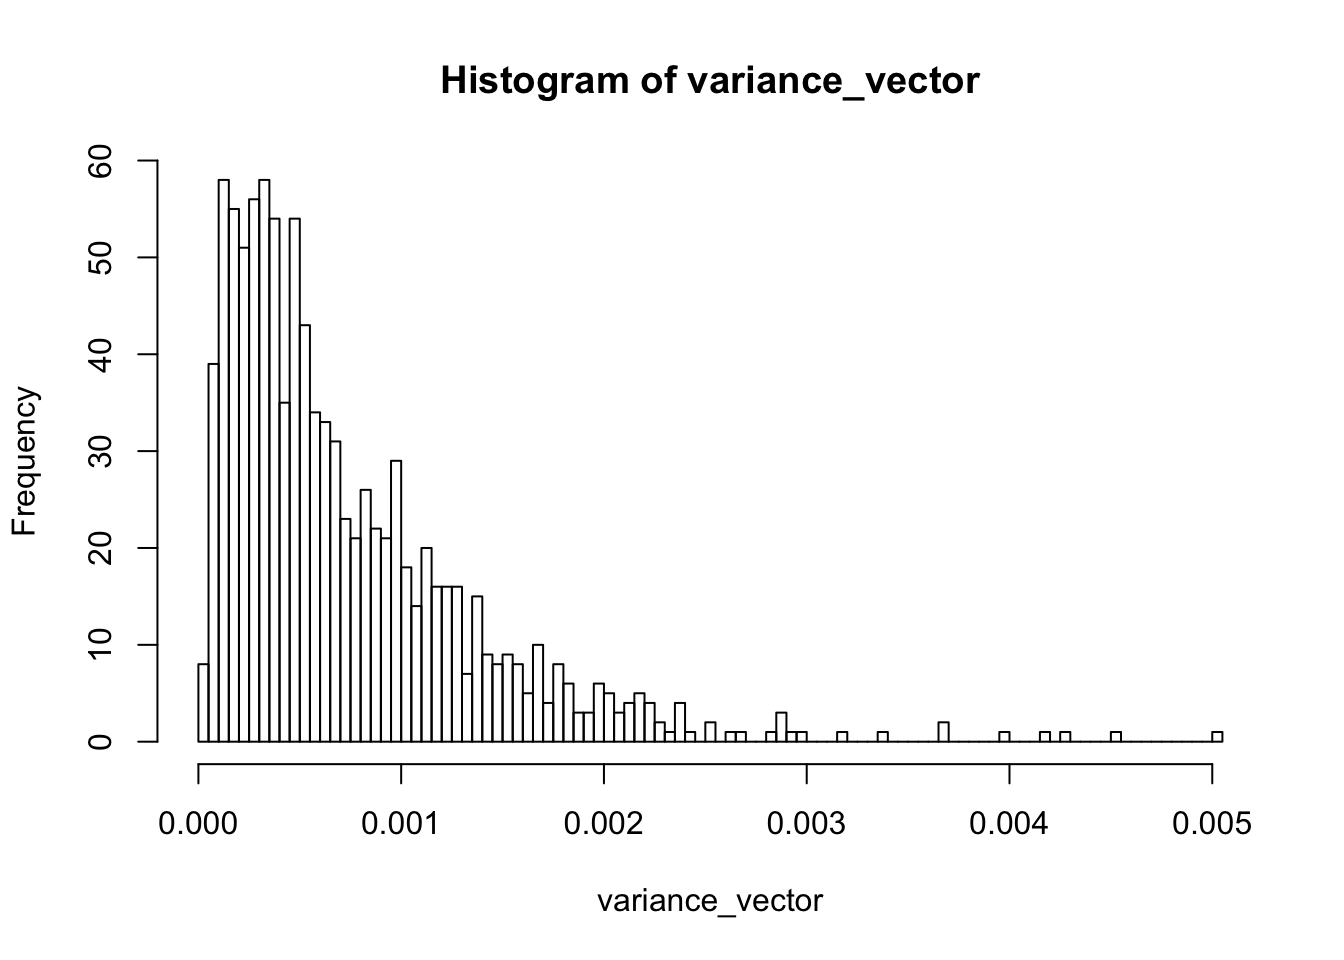
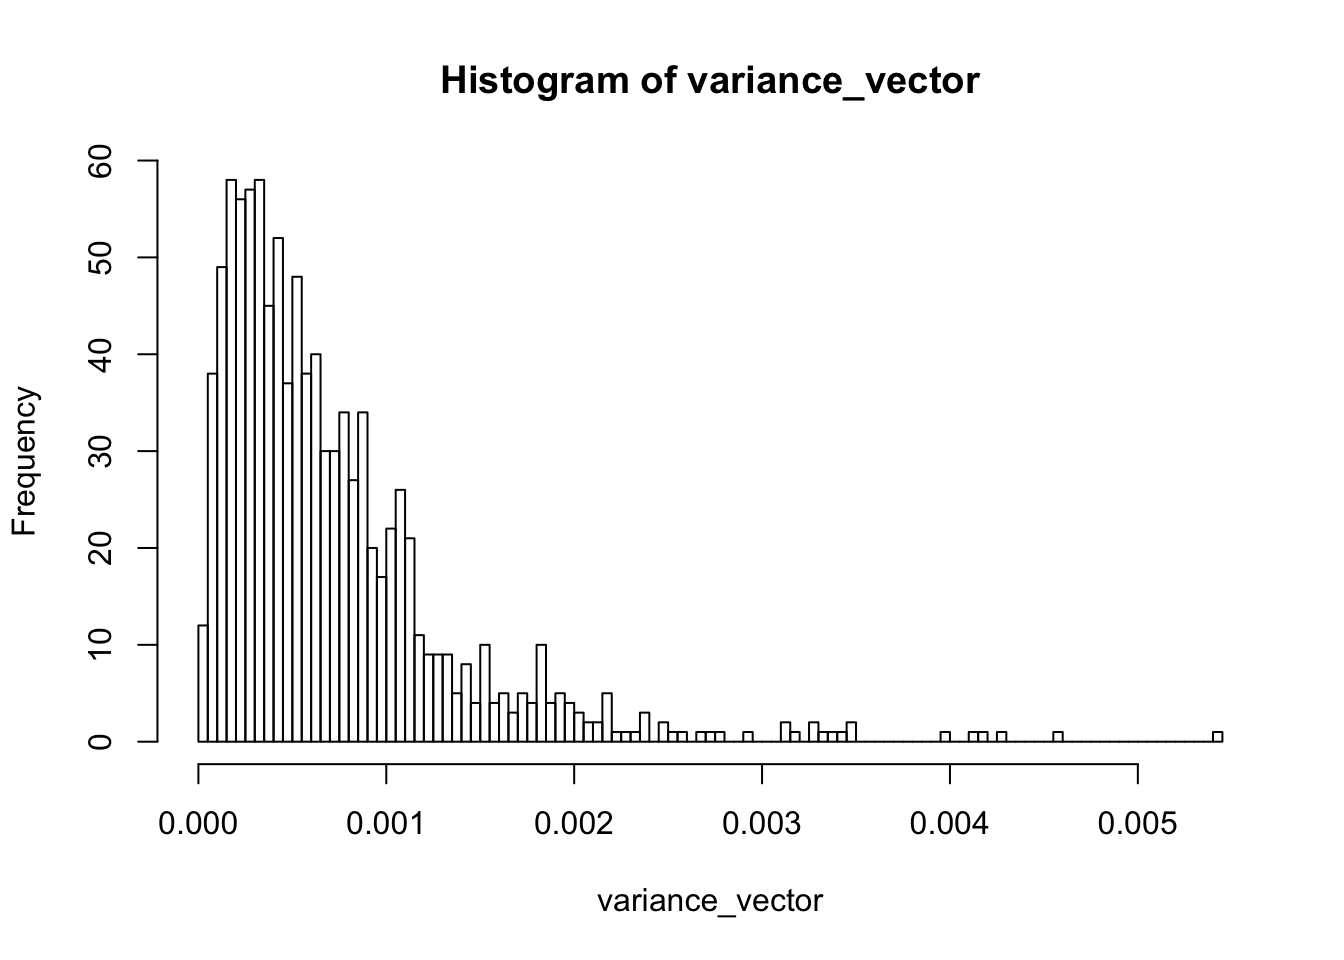
update docs

diff --git a/docs/articles/Intermediate.html b/docs/articles/Intermediate.html
@@ -154,7 +154,7 @@
 <pre><code>#&gt; Plot signature: ' TAI ' and test statistic: ' FlatLineTest '.</code></pre>
 <p><img src="Intermediate_files/figure-html/unnamed-chunk-4-1.png" width="672"></p>
 <pre><code>#&gt;   Zygote Quadrant Globular    Heart  Torpedo     Bent   Mature 
-#&gt; 3.531216 3.523585 3.498187 3.491242 3.480423 3.501253 3.450487</code></pre>
+#&gt; 3.466422 3.488428 3.495646 3.496013 3.506797 3.463541 3.389245</code></pre>
 <pre><code>  Zygote Quadrant Globular    Heart  Torpedo     Bent   Mature 
 3.543700 3.573999 3.554707 3.543376 3.582905 3.562813 3.523409 </code></pre>
 <p>Visualization:</p>
@@ -165,17 +165,17 @@
 <p>Now we investigate the variance of the two observed patterns.</p>
 <pre><code>#&gt; [1] 0.01147725</code></pre>
 <pre><code>[1] 0.01147725</code></pre>
-<pre><code>#&gt; [1] 0.0007279147</code></pre>
+<pre><code>#&gt; [1] 0.001594469</code></pre>
 <pre><code>[1] 0.0004102549</code></pre>
 <p>We observe that the variance of the randomly assigned TAI profile is much smaller than the variance of the correctly assigned TAI profile. Here we use the variance to quantify the <em>flatness</em> of a given TAI profile. In theory the variance of a perfect flat line would be zero. So any TAI profile that is close to zero would resemble a flat line. But how exactly are the variances of randomly assigned TAI profiles distributed? For this purpose the <code><a href="../reference/bootMatrix.html">bootMatrix()</a></code> function was implemented.</p>
 <p>The <code><a href="../reference/bootMatrix.html">bootMatrix()</a></code> takes an PhyloExpressionSet or DivergenceExpressionSet as input and computes N <code>TAI</code> or <code>TDI</code> profiles based on randomly assigned Phylostrata or Divergence-Strata.</p>
 <pre><code>#&gt;     Zygote Quadrant Globular    Heart  Torpedo     Bent   Mature
-#&gt; 1 3.489637 3.495569 3.500309 3.517769 3.517012 3.540757 3.581775
-#&gt; 2 3.512033 3.501396 3.466539 3.461295 3.448574 3.412257 3.495625
-#&gt; 3 3.538784 3.504908 3.501119 3.519454 3.545296 3.559648 3.538091
-#&gt; 4 3.548627 3.568139 3.590980 3.580375 3.552000 3.509592 3.466298
-#&gt; 5 3.547725 3.556784 3.541339 3.543638 3.565802 3.519142 3.525747
-#&gt; 6 3.536087 3.548883 3.568990 3.559366 3.575530 3.585163 3.565130</code></pre>
+#&gt; 1 3.474120 3.478800 3.478647 3.491057 3.490772 3.499926 3.477072
+#&gt; 2 3.554253 3.540531 3.533908 3.522949 3.533968 3.542555 3.524436
+#&gt; 3 3.451429 3.444702 3.469026 3.480706 3.473284 3.482509 3.576852
+#&gt; 4 3.430803 3.433154 3.436687 3.436704 3.400120 3.381230 3.463794
+#&gt; 5 3.494985 3.480247 3.500368 3.495544 3.518639 3.516857 3.507584
+#&gt; 6 3.624289 3.632873 3.645891 3.629026 3.626362 3.595143 3.474762</code></pre>
 <pre><code>    Zygote Quadrant Globular    Heart  Torpedo     Bent   Mature
 1 3.578000 3.577732 3.552230 3.556756 3.555627 3.553580 3.510978
 2 3.590339 3.564544 3.589012 3.598754 3.583721 3.597553 3.633530
@@ -213,12 +213,12 @@ fitdistrplus<span class="op">::</span><span class="kw"><a href="https://www.rdoc
 <p><img src="Intermediate_files/figure-html/unnamed-chunk-12-1.png" width="672"></p>
 <pre><code>#&gt; summary statistics
 #&gt; ------
-#&gt; min:  1.761966e-05   max:  0.00503185 
-#&gt; median:  0.0005415044 
-#&gt; mean:  0.0007344182 
-#&gt; estimated sd:  0.0006416456 
-#&gt; estimated skewness:  2.038069 
-#&gt; estimated kurtosis:  9.526112</code></pre>
+#&gt; min:  1.863947e-05   max:  0.005443164 
+#&gt; median:  0.0005358226 
+#&gt; mean:  0.0007105954 
+#&gt; estimated sd:  0.0006425155 
+#&gt; estimated skewness:  2.454932 
+#&gt; estimated kurtosis:  12.14477</code></pre>
 <p>Based on the observation that a gamma distribution is a suitable fit for <code>variance_vector</code>, we can now estimate the parameters of the gamma distribution that fits the data.</p>
 <div class="sourceCode"><pre class="sourceCode r"><code class="sourceCode r"><span class="co"># estimate the parameters: shape and rate using 'moment matching estimation'</span>
 gamma_MME &lt;-<span class="st"> </span>fitdistrplus<span class="op">::</span><span class="kw"><a href="https://www.rdocumentation.org/packages/fitdistrplus/topics/fitdist">fitdist</a></span>(variance_vector,<span class="dt">distr =</span> <span class="st">"gamma"</span>, <span class="dt">method =</span> <span class="st">"mme"</span>)
@@ -248,7 +248,7 @@ histogram &lt;-<span class="st"> </span><span class="kw"><a href="https://www.rd
 <p>Using the gamma distribution with estimated parameters the corresponding p-value of <code>var_real</code> can be computed.</p>
 <div class="sourceCode"><pre class="sourceCode r"><code class="sourceCode r"><span class="co"># p-value of var_real</span>
 <span class="kw"><a href="https://www.rdocumentation.org/packages/stats/topics/GammaDist">pgamma</a></span>(var_real, <span class="dt">shape =</span> shape,<span class="dt">rate =</span> rate, <span class="dt">lower.tail =</span> <span class="ot">FALSE</span>)</code></pre></div>
-<pre><code>#&gt; [1] 3.648778e-09</code></pre>
+<pre><code>#&gt; [1] 5.586162e-09</code></pre>
 <p>Hence, the variance of the correct TAI profile significantly deviates from random TAI profiles and this allows us to assume that the underlying TAI profile captures a real evolutionary signal.</p>
 </div>
 <div id="using-the-flatlinetest-function" class="section level3">

diff --git a/docs/articles/Introduction.html b/docs/articles/Introduction.html
@@ -154,9 +154,7 @@
 <h2 class="hasAnchor">
 <a href="#motivation" class="anchor"></a>Motivation</h2>
 <p>Using embryo development of the plant <em>Arabidopsis thaliana</em> as an example, we ask the user to imagine how one would investigate the differences of developmental transcriptomes across developmental stages.</p>
-<div class="figure">
-<img src="../../../../R%20Packages/Packages/myTAI/vignettes/Figures/Fig1.png">
-</div>
+<p><img src="inst/Figures/Fig1.png" align="right" height="500" width="500"></p>
 <p style="font-size:10px;">
 Figure 1: Gene expression distributions (= developmental transcriptome) throughout seven stages of <em>A. thaliana</em> embryo development. Embryo development is divided into three phases: early embryogenesis (purple), mid-embryogenesis (green), and late embryogenesis (brown). This boxplot illustrates that the overall distributions of log2 expression levels (y-axis) hardly differ between developmental stages (x-axis) although the difference on the global scale is statistically significant (Kruskal-Wallis Rank Sum Test: p &lt; 2e-16). Hence, a clear visual pattern of gene expression differences between early, mid, and late embryogenesis on the global scale can not be inferred. Adapted from <a href="http://digital.bibliothek.uni-halle.de/urn/urn:nbn:de:gbv:3:4-18221">Drost, 2016</a>.
 </p>
